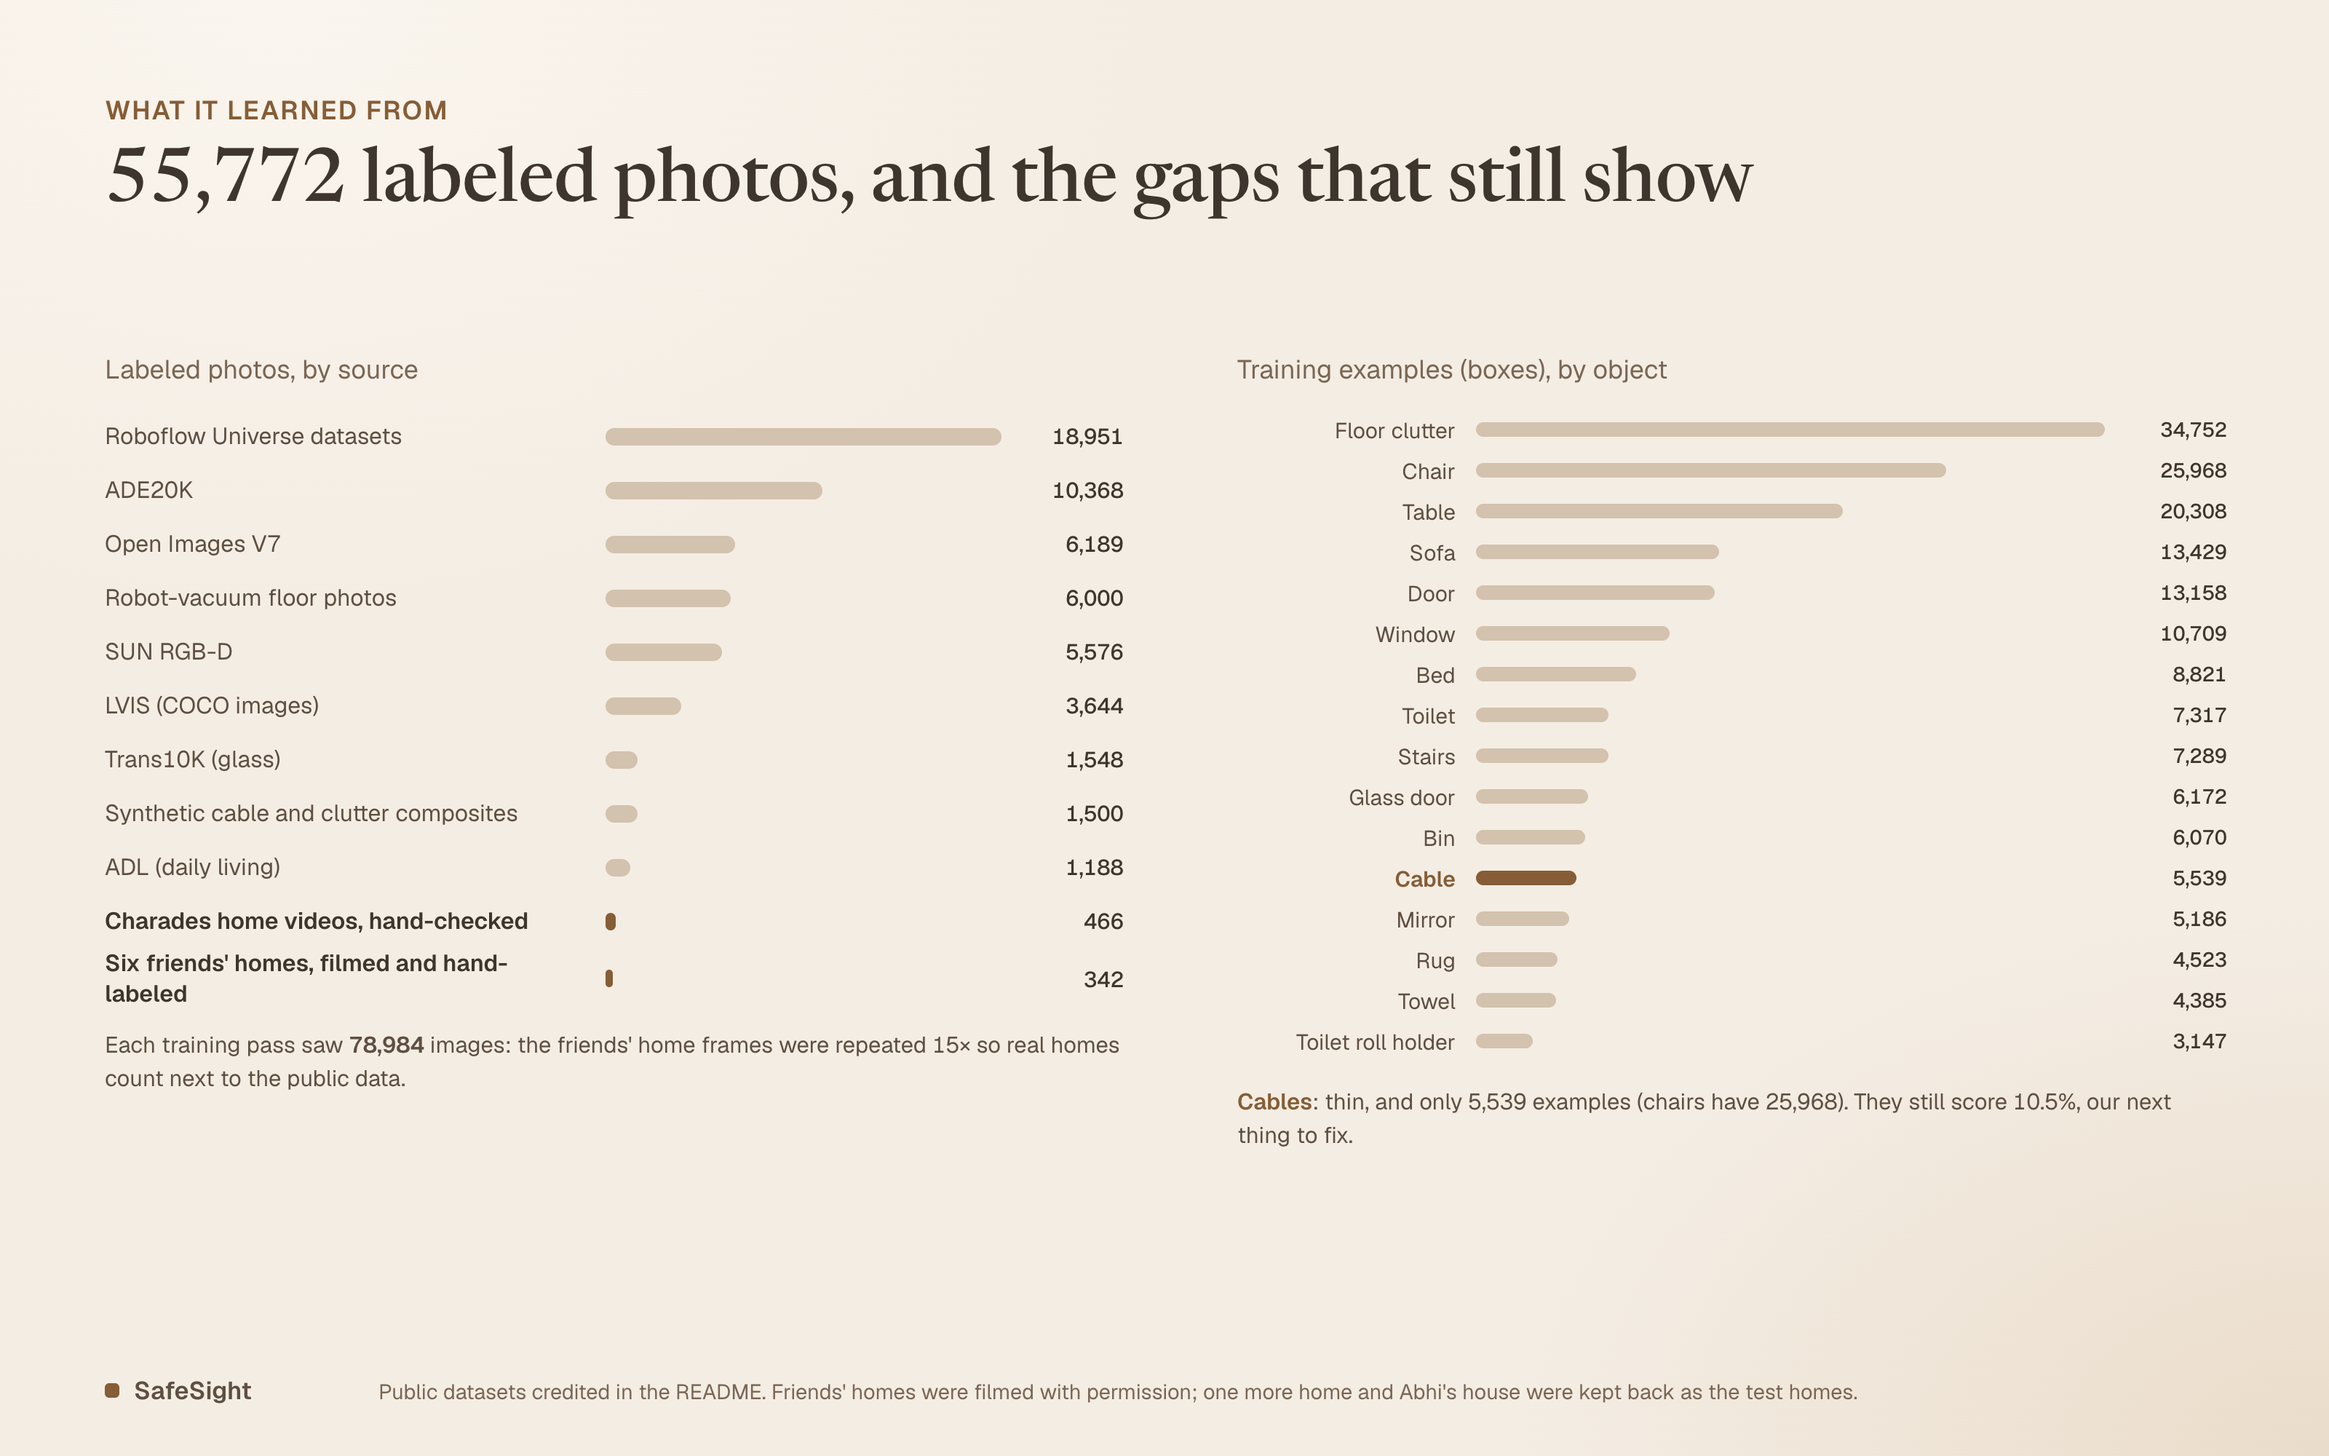
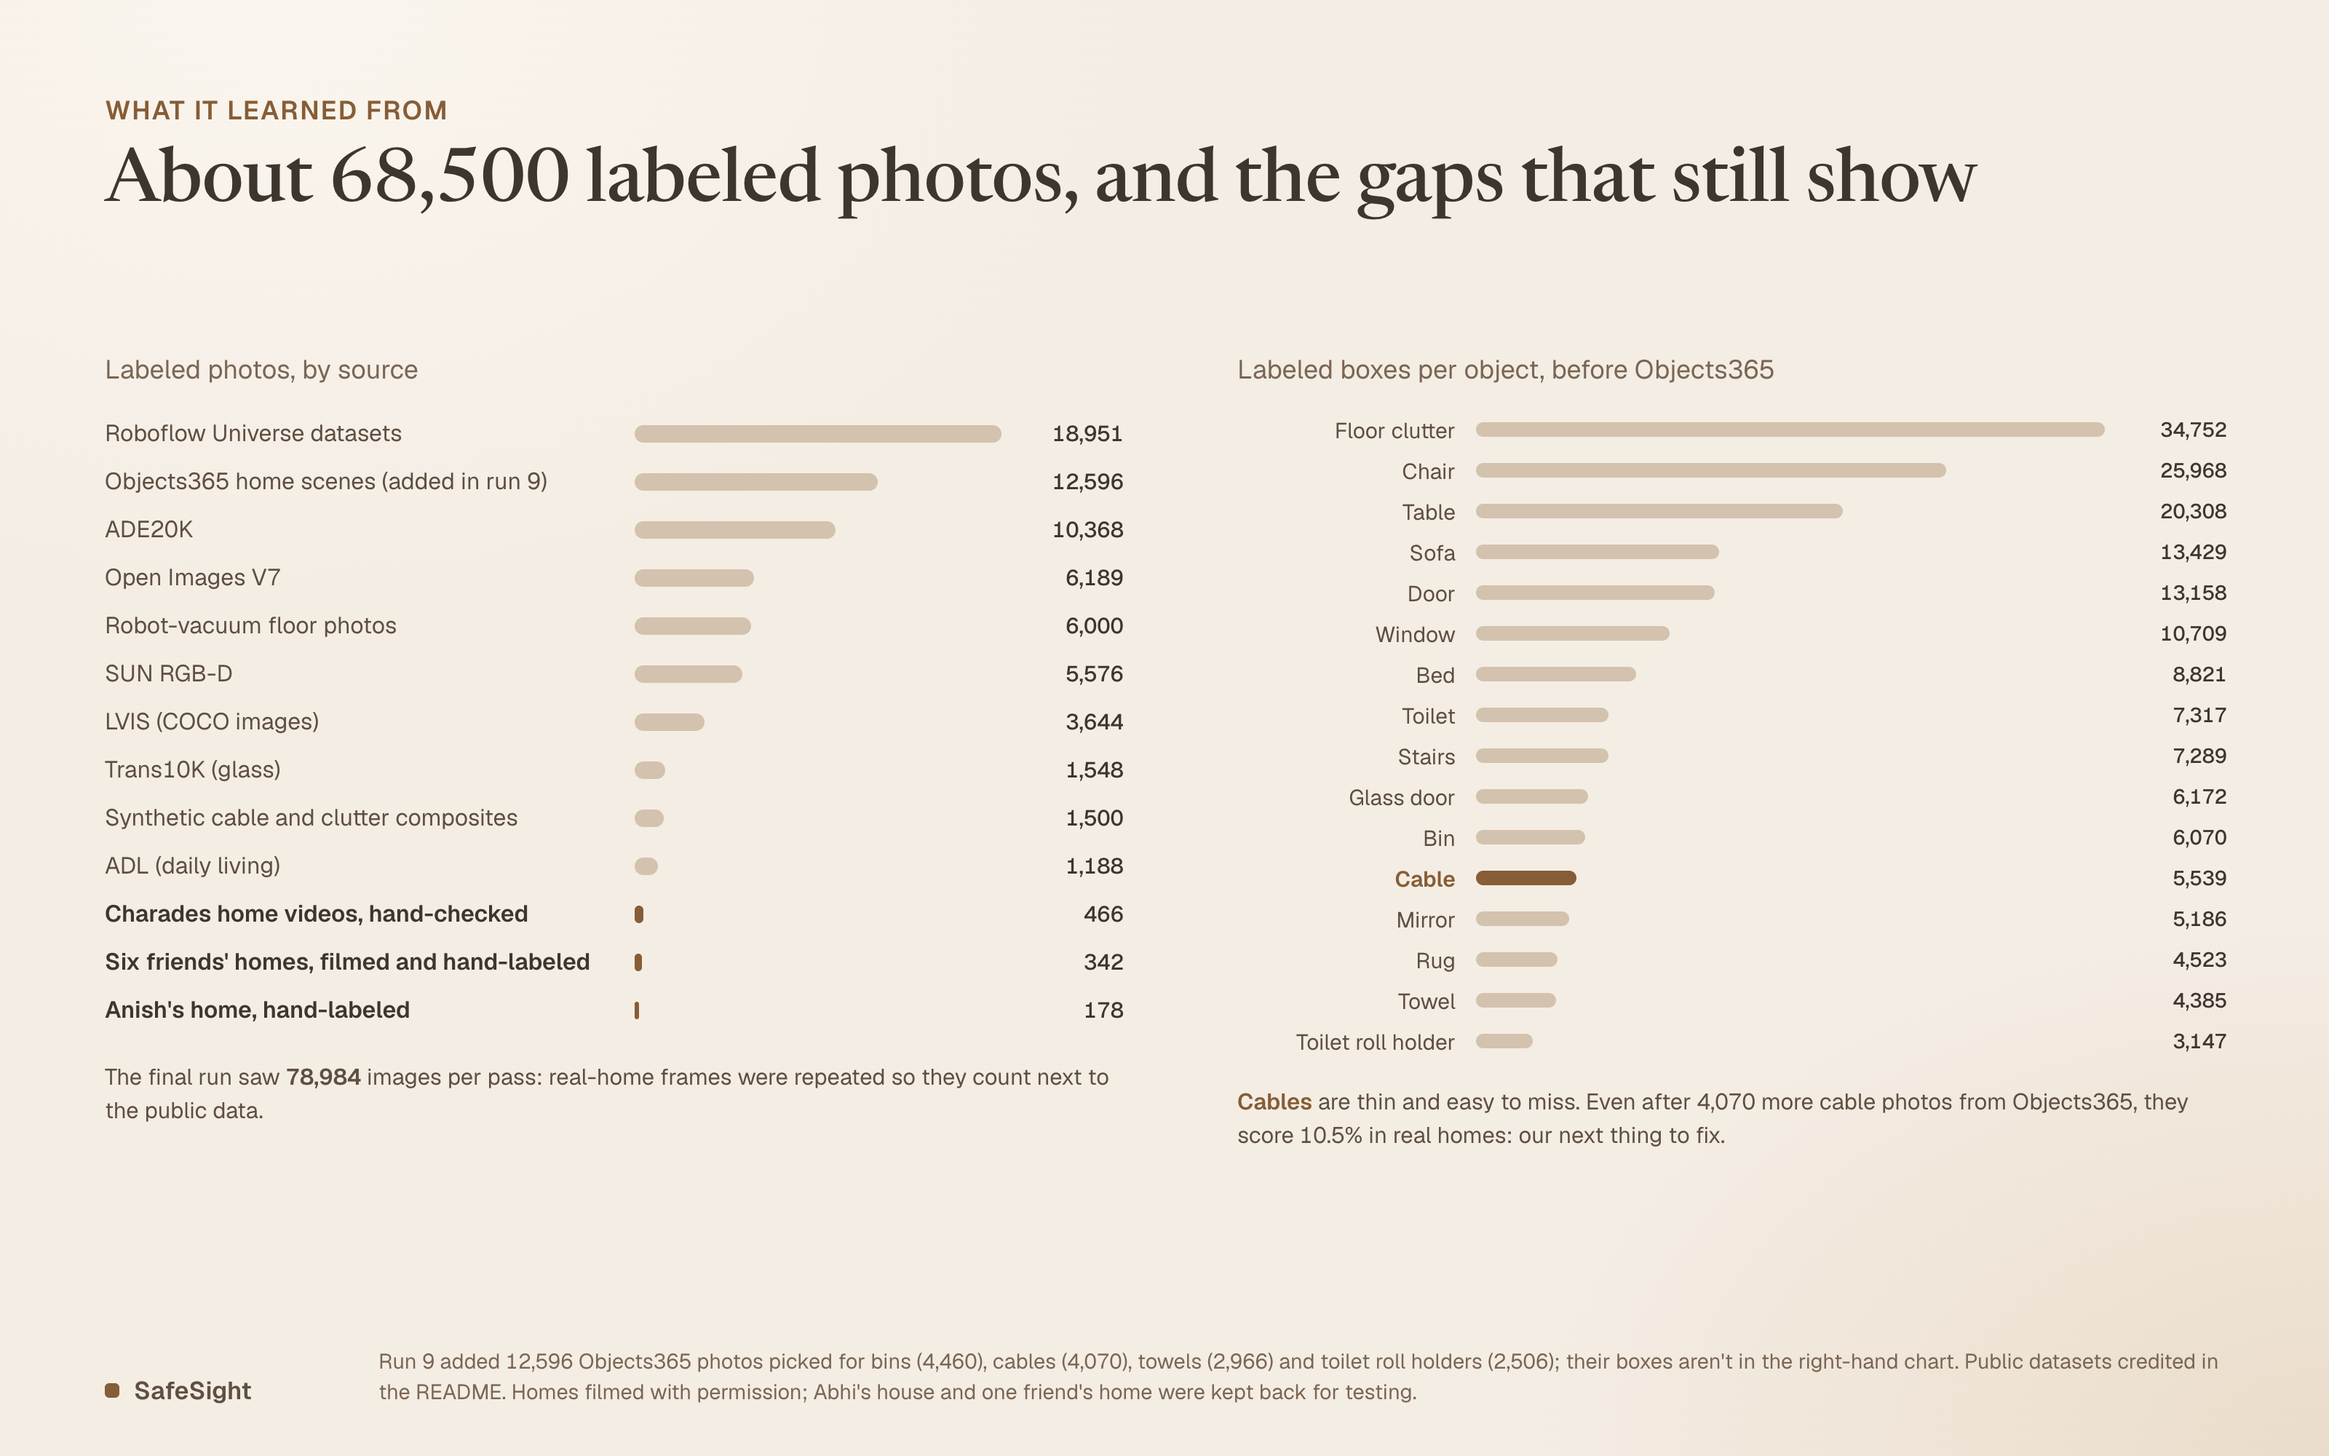
README: live links, stats images, training totals, demo video credits
Adds the live site and demo video links, embeds the three stats images,
states the full training set (about 68,500 labeled photos, including the
12,596 Objects365 scenes from run 9) and fixes stats_3 to match, explains the
one-card-per-problem merge, records Railway speeds, and credits the tools used
for the demo video (Whisper, Playwright, D3, world-atlas/Natural Earth,
Railway, Docker) and the WHO source for the narrated figures.

diff --git a/README.md b/README.md
@@ -2,7 +2,9 @@
 
 Finds things in a home that may be risky or confusing for a person with dementia, based on the Alzheimer's Society guide *Making your home dementia friendly*. A caregiver films a room on their phone (or uploads photos); SafeSight shows each thing that may be a problem, a few seconds of their own video where it was seen, why it matters, what we measured, what the guide says, and a cheap fix.
 
-Built at BananaHacks 2026.
+**Try it:** https://safesight.up.railway.app · **Demo video:** https://youtu.be/4x-cMvyRrkc
+
+Built at BananaHacks 2026 by Abhi Jandyala and Anish Alleti. SafeSight gives suggestions, not a safety inspection or medical advice.
 
 ## What it does
 
@@ -34,6 +36,14 @@ Scored on two homes the model never trained on: Abhi's house (211 frames, 613 ha
 - Where the untrained detector was already better (toilets, mirrors, beds, chairs, towels, sofas, rugs), SafeSight keeps using it for those objects. Per-label choices were made on validation photos, except towel, sofa and door, where both test homes agreed; the room-level numbers above did not change with those three.
 - Numbers come from `model/scripts/evaluate.py`, `room_eval.py` and `make_chart.py`; raw numbers in `model/results/accuracy.json`.
 
+![Before and after fine-tuning, per object](model/results/stats_1_before_after.png)
+
+Across the 11 training runs, 86 of 160 per-object scores on test home 1 got worse than the untrained detector and 50 got better, which is why the final model keeps the best version for each object instead of the last run:
+
+![Every training run, per object](model/results/stats_2_training_runs.png)
+
+![Training data by source and by object](model/results/stats_3_training_data.png)
+
 ## How it works
 
 - **Frames:** about one sharp, distinct frame per second of video (blurry and repeated frames dropped), at most 40 per video.
@@ -42,11 +52,13 @@ Scored on two homes the model never trained on: Abhi's house (211 frames, 613 ha
 - **Outlines and surfaces:** SAM 2.1 traces each object; Grounding DINO finds floor, walls, doors and windows.
 - **Contrast checks** (`model/scripts/analyze.py`): light reflectance (LRV) of each object against what's around it; under 20 points is flagged and under 10 is serious, adjoining floors more than 10 apart may look like a step, plus checks for dark rugs, busy patterns, glare, glass doors, uncovered windows at night and stair edges. 16 hazard types in all, each sourced in `model/HAZARD_RESEARCH.md`.
 - **Clips:** for each finding in a video, 3 seconds around the moment it was seen, people blurred, and a box track from the detector so the website can frame the object as it moves.
+- **One card per problem:** a video sees the same thing in many frames, so each kind of problem on each kind of object is shown once, from its clearest, most confident sighting; two labels on the same spot in one frame (a mirror also read as a glass door) keep only the surer one. Less certain findings go in a separate "check these in person" list, and the caregiver can remove anything that's wrong.
 
 ## The model
 
 - **Starting point:** YOLO-World v2 L, an open-vocabulary detector, fine-tuned on an NVIDIA H100 (Brev) in 11 training runs; frozen backbone, 1024-px images.
-- **Training data:** about 66,000 images from public datasets (below), plus real phone videos: 342 hand-checked frames from friends' homes and Anish's cable videos, 178 frames of Anish's home and 466 hand-reviewed frames from Charades homes, each repeated so real homes weigh more. 1,500 copy-paste images add towels, glass doors and cables onto real home photos.
+- **Training data:** about 68,500 labeled photos. About 66,000 come from public datasets (below), including 12,596 Objects365 home scenes added in run 9 for bins, cables, towels and toilet roll holders. The rest are real phone videos: 342 hand-checked frames from six friends' homes and Anish's cable videos, 178 frames of Anish's home and 466 hand-reviewed frames from Charades homes, each repeated so real homes weigh more (the final run saw 78,984 images per pass). 1,500 copy-paste images add towels, glass doors and cables onto real home photos.
+- **Compute:** 198 training passes over 11 runs, about 8 hours on the H100.
 - **Labeling:** models pre-label; every box is reviewed by eye and the real-home frames were checked by us in Label Studio (`model/scripts/charades_candidates.py`, `sync_friends.py`).
 - **Picking the final model:** each run is scored per object type on validation photos; the app uses the best run for each (`model/scripts/combo.py`), checked across both test homes (`cross_select.py`).
 - **Tried and not used:** pseudo-labeling (no gain), averaging weights ("model soup", worse on validation), and generative "after" pictures with SDXL inpainting (`model/scripts/fix_sdxl.py`), which often changed the room itself; the app's after pictures recolor only the flagged object.
@@ -73,6 +85,8 @@ Measured on an Apple-silicon Mac: 5 photos in about 12 s, a 25-second video in a
 
 ### Railway
 
+Live at https://safesight.up.railway.app (website) and https://brain-production-3375.up.railway.app (analysis service). Measured there: the first check after a restart takes about 90 s while the models warm up, then about 15 s per photo; a 7-second video takes about 2 minutes.
+
 Two services from this repo, both with the repo root as their root directory (settings in each service's Settings tab):
 
 - **Website**: Dockerfile path `app/Dockerfile`, healthcheck `/`, watch `app/**`. Set `NEXT_PUBLIC_BRAIN_URL` to the analysis service's public URL; without it the site shows the example results.
@@ -93,6 +107,7 @@ Two services from this repo, both with the repo root as their root directory (se
 - [YOLO11](https://docs.ultralytics.com/models/yolo11/) (`yolo11m`, Ultralytics, AGPL-3.0, trained on COCO): finds people so they can be blurred.
 - Tried and not used: [Stable Diffusion XL inpainting 0.1](https://huggingface.co/diffusers/stable-diffusion-xl-1.0-inpainting-0.1) (CreativeML Open RAIL++-M) for after pictures.
 - The earlier prototype in `backend/` used YOLO-World v2 S, YOLO11 segmentation (`yolo11n-seg`) and SAM 2.1 tiny through Ultralytics.
+- [Whisper](https://github.com/openai/whisper) large-v3-turbo (OpenAI, MIT), run locally through [mlx-whisper](https://github.com/ml-explore/mlx-examples/tree/main/whisper) (MIT): transcribed the demo video for its captions and to time its graphics to the narration. Not part of the app.
 
 ### Datasets
 
@@ -115,14 +130,15 @@ Training data by source, and per-object results: `model/results/stats_1_before_a
 
 - App: [Next.js](https://nextjs.org), [React](https://react.dev), [Tailwind CSS](https://tailwindcss.com), [Motion](https://motion.dev), [clsx](https://github.com/lukeed/clsx), [tailwind-merge](https://github.com/dcastil/tailwind-merge), [TypeScript](https://www.typescriptlang.org), [Vitest](https://vitest.dev) and [ESLint](https://eslint.org).
 - Service and model: [PyTorch](https://pytorch.org), [Ultralytics](https://github.com/ultralytics/ultralytics), [Hugging Face Transformers](https://github.com/huggingface/transformers), [huggingface_hub](https://github.com/huggingface/huggingface_hub), [Diffusers](https://github.com/huggingface/diffusers) (SDXL test), [FastAPI](https://fastapi.tiangolo.com), [Uvicorn](https://www.uvicorn.org), [OpenCV](https://opencv.org), [NumPy](https://numpy.org), [pandas](https://pandas.pydata.org), [SciPy](https://scipy.org), [Matplotlib](https://matplotlib.org), [Pillow](https://python-pillow.org), [pillow-heif](https://github.com/bigcat88/pillow_heif) (iPhone photos), [ImageHash](https://github.com/JohannesBuchner/imagehash), [remotezip](https://github.com/gtsystem/python-remotezip), [python-multipart](https://github.com/Kludex/python-multipart), [FFmpeg](https://ffmpeg.org), [pytest](https://pytest.org) and [HTTPX](https://www.python-httpx.org).
-- [Label Studio](https://labelstud.io) for checking labels, [Cloudflare Tunnel](https://www.cloudflare.com/products/tunnel/) for the public link, and [NVIDIA Brev](https://developer.nvidia.com/brev) for the H100.
+- [Label Studio](https://labelstud.io) for checking labels, [Cloudflare Tunnel](https://www.cloudflare.com/products/tunnel/) for the public link, [NVIDIA Brev](https://developer.nvidia.com/brev) for the H100, and [Railway](https://railway.com) with [Docker](https://www.docker.com) for hosting.
+- Demo video and stats images: [Playwright](https://playwright.dev) (Apache-2.0) driving Google Chrome to render each frame of the graphics, [FFmpeg](https://ffmpeg.org) to cut and encode, and for the world map [d3-geo](https://github.com/d3/d3-geo) and [d3-array](https://github.com/d3/d3-array) (ISC), [topojson-client](https://github.com/topojson/topojson-client) (ISC) and [world-atlas](https://github.com/topojson/world-atlas) (ISC; [Natural Earth](https://www.naturalearthdata.com) data, public domain).
 - [Fancy Components](https://www.fancycomponents.dev) by Daniel Petho (MIT): Vertical Cut Reveal and Text Rotate, via [21st.dev](https://21st.dev). The text highlight in `app/src/components/ui/text-highlight.tsx` is modeled on its Text Highlighter.
 - [Magic UI](https://magicui.design) (MIT): the scroll fade in `app/src/components/ui/blur-fade.tsx` is modeled on its Blur Fade.
 - The site's look takes cues from [Gradient Labs](https://gradient-labs.ai).
 
 ### Fonts
 
-- [Geist](https://vercel.com/font) (Vercel) and [Inter](https://rsms.me/inter/) (Rasmus Andersson), both SIL Open Font License, through Google Fonts. The earlier designs kept at `/v1` to `/v4` also use Manrope, Atkinson Hyperlegible, Newsreader and IBM Plex Mono (all SIL Open Font License); Newsreader also sets the small section labels on the results page.
+- [Geist](https://vercel.com/font) (Vercel) and [Inter](https://rsms.me/inter/) (Rasmus Andersson), both SIL Open Font License, through Google Fonts. The earlier designs kept at `/v1` to `/v4` also use Manrope, Atkinson Hyperlegible, Newsreader and IBM Plex Mono (all SIL Open Font License); Newsreader also sets the small section labels on the results page, and Geist and Newsreader set the demo video's graphics and the stats images.
 
 ### Images
 
@@ -131,7 +147,14 @@ Training data by source, and per-object results: `model/results/stats_1_before_a
 - Store logos in the "Where to buy" section (`app/public/site/stores/`) are from [Wikimedia Commons](https://commons.wikimedia.org) and shown in black and white. They are trademarks of their owners; SafeSight isn't affiliated with any of these stores. All are public domain on Commons except the Menards logo, [Menards Stripe Logo.svg](https://commons.wikimedia.org/wiki/File:Menards_Stripe_Logo.svg) by Mrpeters33, [CC BY-SA 4.0](https://creativecommons.org/licenses/by-sa/4.0) (shown in black and white). Sources: [Walmart](https://commons.wikimedia.org/wiki/File:Walmart_logo_(2025).svg), [Target](https://commons.wikimedia.org/wiki/File:Target_logo.svg), [Amazon](https://commons.wikimedia.org/wiki/File:Amazon_logo.svg), [The Home Depot](https://commons.wikimedia.org/wiki/File:The_Home_Depot_logo.svg), [Lowe's](https://commons.wikimedia.org/wiki/File:Lowes_Companies_Logo.svg), [IKEA](https://commons.wikimedia.org/wiki/File:Ikea_logo.svg), [Wayfair](https://commons.wikimedia.org/wiki/File:Wayfair_logo.svg), [Costco](https://commons.wikimedia.org/wiki/File:Costco_Wholesale_logo_2010-10-26.svg), [Ace Hardware](https://commons.wikimedia.org/wiki/File:Ace_Hardware_Logo.svg), [Kohl's](https://commons.wikimedia.org/wiki/File:Kohl%27s_logo.svg), [Dollar General](https://commons.wikimedia.org/wiki/File:Dollar_General_logo.svg).
 - An earlier version of the site used images generated with [Stable Diffusion XL 1.0](https://huggingface.co/stabilityai/stable-diffusion-xl-base-1.0) (`backend/tools/generate_site_images.py`).
 
+### Demo video
+
+- Filmed by us. The "dad" in the demo is played by an actor, and the video says so on screen.
+- The example photos in its graphics (a bathroom, a dining room with a dark rug, a cable on a floor) come from the training datasets above (ADE20K and Roboflow lgdata), run through our model; the outlines and numbers shown are its real output. The website screens are a real check on the live site.
+- Stats quoted in the narration: 55 million people living with dementia and US$1.3 trillion a year in care costs, about half of it unpaid care by family and friends, are from the [World Health Organization](https://www.who.int/news-room/fact-sheets/detail/dementia).
+
 ### AI tools
 
-- [Claude Code](https://claude.com/claude-code) (Anthropic) with Claude Opus 5.5 helped write the app, service and model code, tests and site wording, researched design references and dementia guidance, ran and checked the training runs, and pre-labeled and reviewed training frames (which we then checked in Label Studio); commits it helped with say so. Some of Abhi's commits were written with Claude Fable 5.1.
+- [Claude Code](https://claude.com/claude-code) (Anthropic) with Claude Opus 5.5 helped write the app, service and model code, tests and site wording, researched design references and dementia guidance, ran and checked the training runs, and pre-labeled and reviewed training frames (which we then checked in Label Studio); commits it helped with say so. Some of Abhi's commits were written with Claude Fable 5.1. It also set up the Railway deployment, and made the demo video's graphics, captions and thumbnail and the stats images in `model/results/`, from our real results.
+- OpenAI's Whisper (above) transcribed the demo video for its captions.
 - OpenAI's GPT-6 Astra generated the example living room (above).
